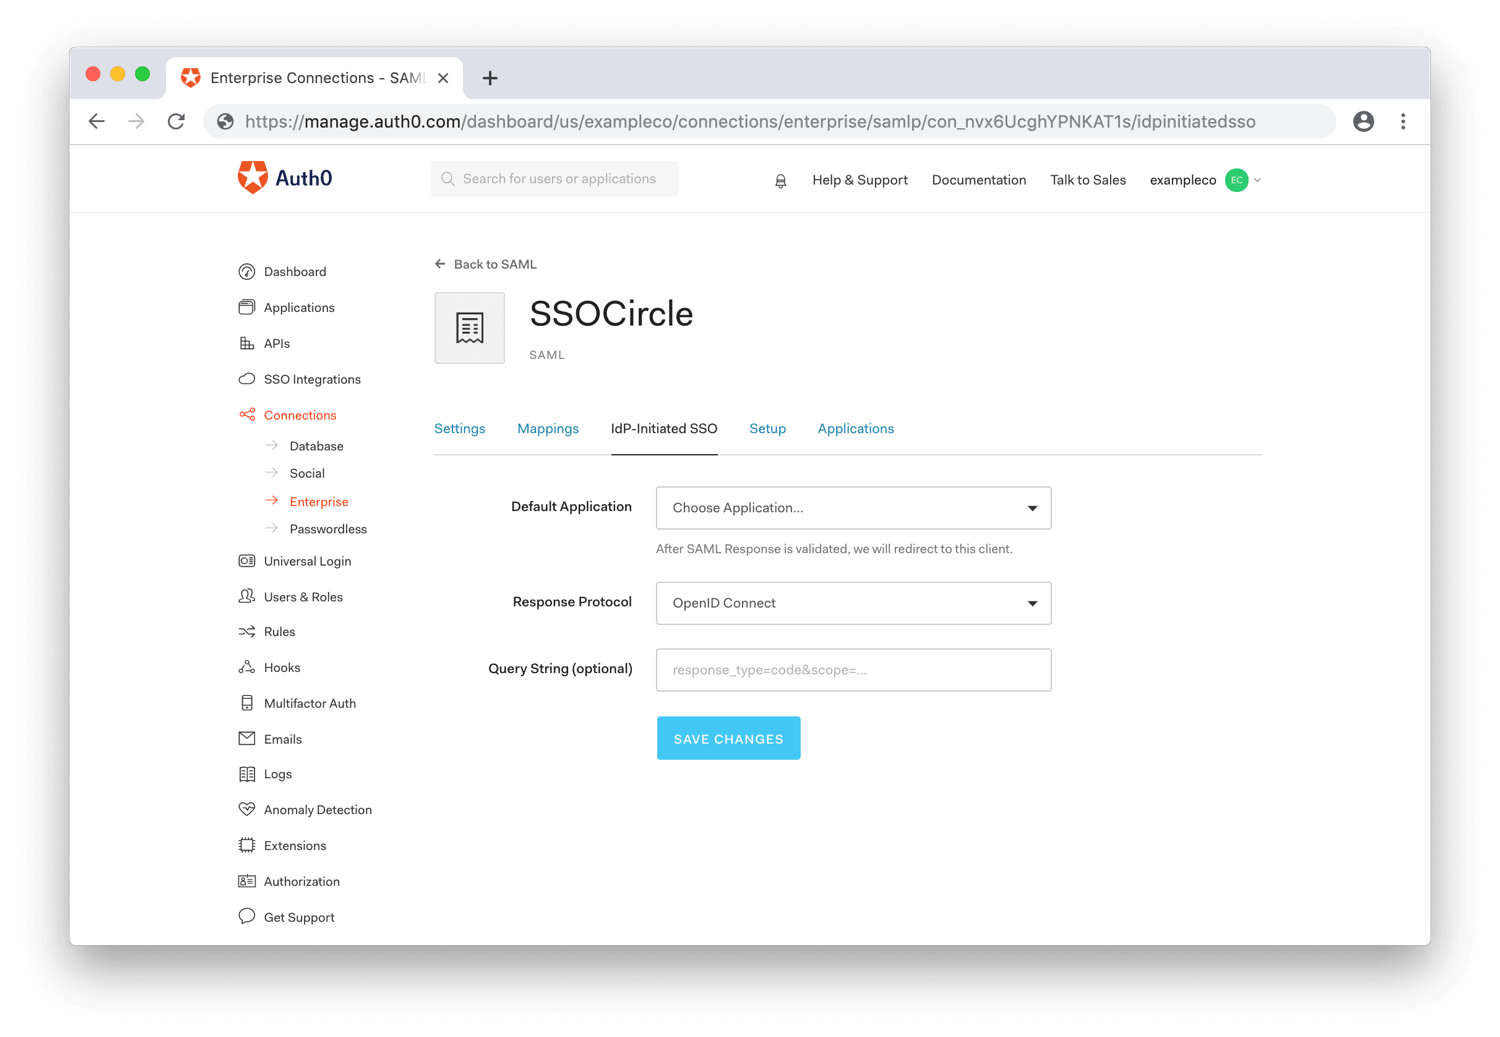
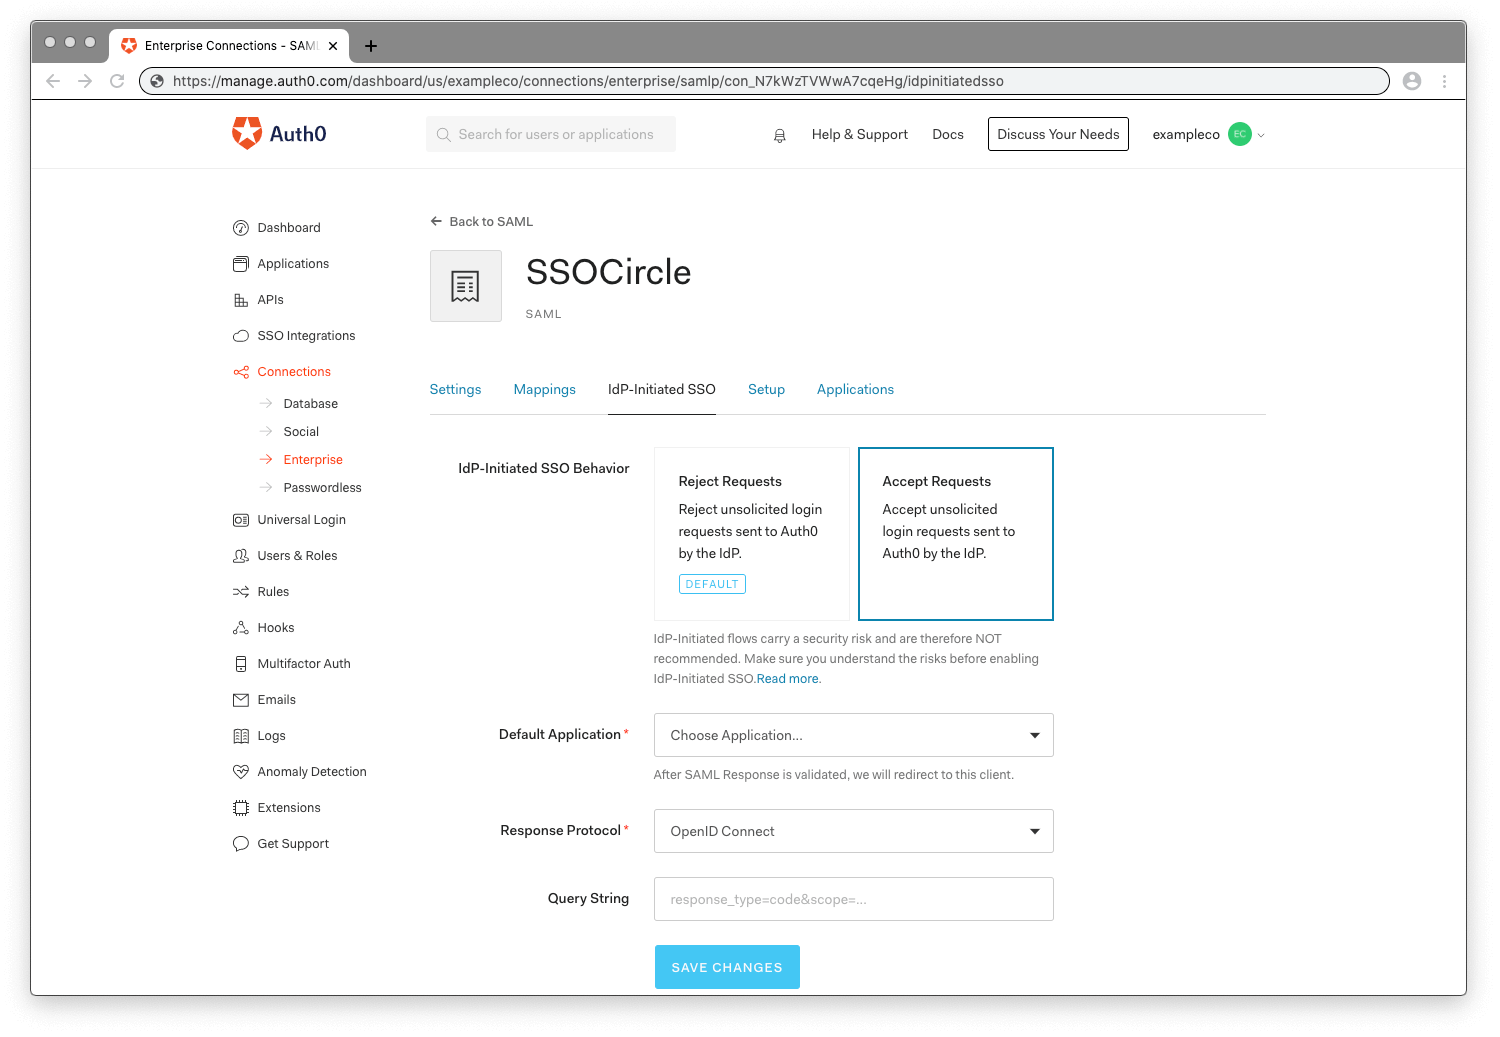
Update IdP-Initiated SSO documentation to reference the enable step

diff --git a/articles/troubleshoot/references/saml-errors.md b/articles/troubleshoot/references/saml-errors.md
@@ -30,6 +30,35 @@ This message indicates that the Application doesn't have an active Connection as
 3. Switch to the *Applications* tab.
 4. Enable at least one Application (if you don't see any in the list, you will need to [create an application](/applications) before proceeding).
 
+## IdP-Initiated Login Is Not Enabled
+
+```json
+{
+  "invalid_request": "IdP-Initiated login is not enabled for connection 'CONNECTION_NAME'."
+}
+```
+
+### Cause
+
+This error appears when you try to perform an IdP-Initiated login with a connection configured to reject unsolicited logins.
+
+### Solution
+
+1. Navigate to [Connections > Enterprise](${manage_url}/#/connections/enterprise).
+2. Find your Connection, and click on **Settings**.
+3. Switch to the *IdP-Initiated SSO* tab.
+4. Next to **IdP-Initiated SSO Behavior** select **Accept Requests** to enable IdP-Initiated logins.
+5. Select the **Default Application** and the **Response Protocol** used by that Application, and (optionally) specify any additional parameters you want passed to the Application.
+
+::: panel SP-Initiated Login
+If you see this error when using a SP-initiated flow, one of the following is missing or empty:
+
+* The `RelayState` parameter
+* The `InResponseTo` attribute in the SAML response
+
+If these are missing or empty, Auth0 treats the login as IdP-initiated. You can fix this error by checking your configuration to ensure that both fields are populated and returned appropriately.
+:::
+
 ## IdP-Initiated Default App Not Configured
 
 ```json
@@ -40,13 +69,13 @@ This message indicates that the Application doesn't have an active Connection as
 
 ### Cause
 
-This error appears if you haven't provided the necessary information to support IdP-initiated login flows.
+This error appears if you have enabled IdP-Initiated flows but you haven't provided the necessary information to execute the flow.
 
 ### Solution
 
 1. Navigate to [Connections > Enterprise](${manage_url}/#/connections/enterprise).
 2. Find your Connection, and click on **Settings**.
-3. Switch to the *IdP-Initiated* tab.
+3. Switch to the *IdP-Initiated SSO* tab.
 4. Select the **Default Application** and the **Response Protocol** used by that Application, and (optionally) specify any additional parameters you want passed to the Application.
 
 ::: panel SP-Initiated Login
@@ -87,7 +116,7 @@ There is an incorrect response protocol on the **IdP-Initiated** tab. The respon
 
 1. Navigate to [Connections > Enterprise](${manage_url}/#/connections/enterprise).
 2. Find your Connection, and click on **Settings**.
-3. Switch to the *IdP-Initiated* tab.
+3. Switch to the *IdP-Initiated SSO* tab.
 4. Check the value you have set in the **Response Protocol** field.
 
 ## User isn't logged out from the IdP

diff --git a/articles/protocols/saml/saml-configuration/troubleshoot/common-saml-errors.md b/articles/protocols/saml/saml-configuration/troubleshoot/common-saml-errors.md
@@ -33,6 +33,31 @@ This message indicates that the Application doesn't have an active Connection as
 3. Switch to the *Applications* tab.
 4. Enable at least one Application (if you don't see any in the list, you will need to [create an application](/applications) before proceeding).
 
+## Error: IdP-Initiated Login Is Not Enabled
+
+```json
+{
+  "invalid_request": "IdP-Initiated login is not enabled for connection 'CONNECTION_NAME'."
+}
+```
+
+### How to Fix
+
+1. Navigate to [Connections > Enterprise](${manage_url}/#/connections/enterprise).
+2. Find your Connection, and click on **Settings**.
+3. Switch to the *IdP-Initiated SSO* tab.
+4. Next to **IdP-Initiated SSO Behavior** select **Accept Requests** to enable IdP-Initiated logins.
+5. Select the **Default Application** and the **Response Protocol** used by that Application, and (optionally) specify any additional parameters you want passed to the Application.
+
+::: panel SP-Initiated Login
+If you see this error when using a SP-initiated flow, one of the following is missing or empty:
+
+* The `RelayState` parameter
+* The `InResponseTo` attribute in the SAML response
+
+If these are missing or empty, Auth0 treats the login as IdP-initiated. You can fix this error by checking your configuration to ensure that both fields are populated and returned appropriately.
+:::
+
 ## Error: IdP-Initiated Default App Not Configured
 
 ```json

diff --git a/articles/protocols/saml/idp-initiated-sso.md b/articles/protocols/saml/idp-initiated-sso.md
@@ -41,6 +41,8 @@ To setup IdP-Initiated SSO, go to the [Enterprise Connections](${manage_url}/#/c
 
 ![Configure SAML Idp-Initiated SSO Settings](/media/articles/dashboard/connections/enterprise/conn-enterprise-saml-idp-initiated-sso.png)
 
+**IdP-Initiated SSO Behavior:** This option allows you to enable IdP-Initiated logins for the SAML connection. Select **Accept Requests** and complete all the required fields.
+
 **Default Application:** When the IdP initiated login succeeds this is the application where users are routed. This setting shows available applications enabled for this connection. Select the application from the dropdown that you want the users to login with IdP initiated. Only one application can be selected for an IdP-initiated login per SAML connection.
 
 **Response Protocol:** This is the protocol used to connect your selected **Default Application**. Most commonly applications are configured with the OpenID Connect protocol (read [here](#on-idp-initiated-flows-and-OIDC) for possible pitfalls). However if you have configured a SAML2 Web App addon for your application and want to route the SAML assertion you will need to select SAML.

diff --git a/articles/protocols/saml/identity-providers/onelogin.md b/articles/protocols/saml/identity-providers/onelogin.md
@@ -78,7 +78,7 @@ If you don't have a OneLogin user, please read the following section on configur
 
 OneLogin offers an Application Portal/Launcher to their users. If you want to take advantage of this functionality, you will have to change the **SAML Consumer URL** in OneLogin dashboard to include the `connection` parameter (e.g., `https://${account.namespace}/login/callback?connection=onelogin-customer`). Be sure to replace `onelogin-customer` with the name of your Auth0 connection.
 
-Finally, be sure to pick the application to which your user is redirected *after* the SAML assertion is consumed. You can find more information in the [IdP-Initiated SSO page](/protocols/saml/idp-initiated-sso).
+Finally, be sure to enable IdP-Initiated login for the connection and pick the application to which your user is redirected *after* the SAML assertion is consumed. You can find more information in the [IdP-Initiated SSO page](/protocols/saml/idp-initiated-sso).
 
 ## Edit connection mappings
 

diff --git a/articles/protocols/saml/saml-configuration/troubleshoot/auth0-as-sp.md b/articles/protocols/saml/saml-configuration/troubleshoot/auth0-as-sp.md
@@ -183,6 +183,8 @@ If you're using an IdP-initiated flow (for example, the user starts at the ident
 
 * The IdP-initiated configuration tab for the Connection is properly filled in, including:
 
+  * The Idp-initiated SSO behavior is set to **Accept Requests**;
+
   * The application to which the user should be sent;
 
   * The protocol between the application and Auth0 (which is not necessarily **SAML** like the connection, and most likely is <dfn data-key="openid">**OpenID Connect**</dfn>);
